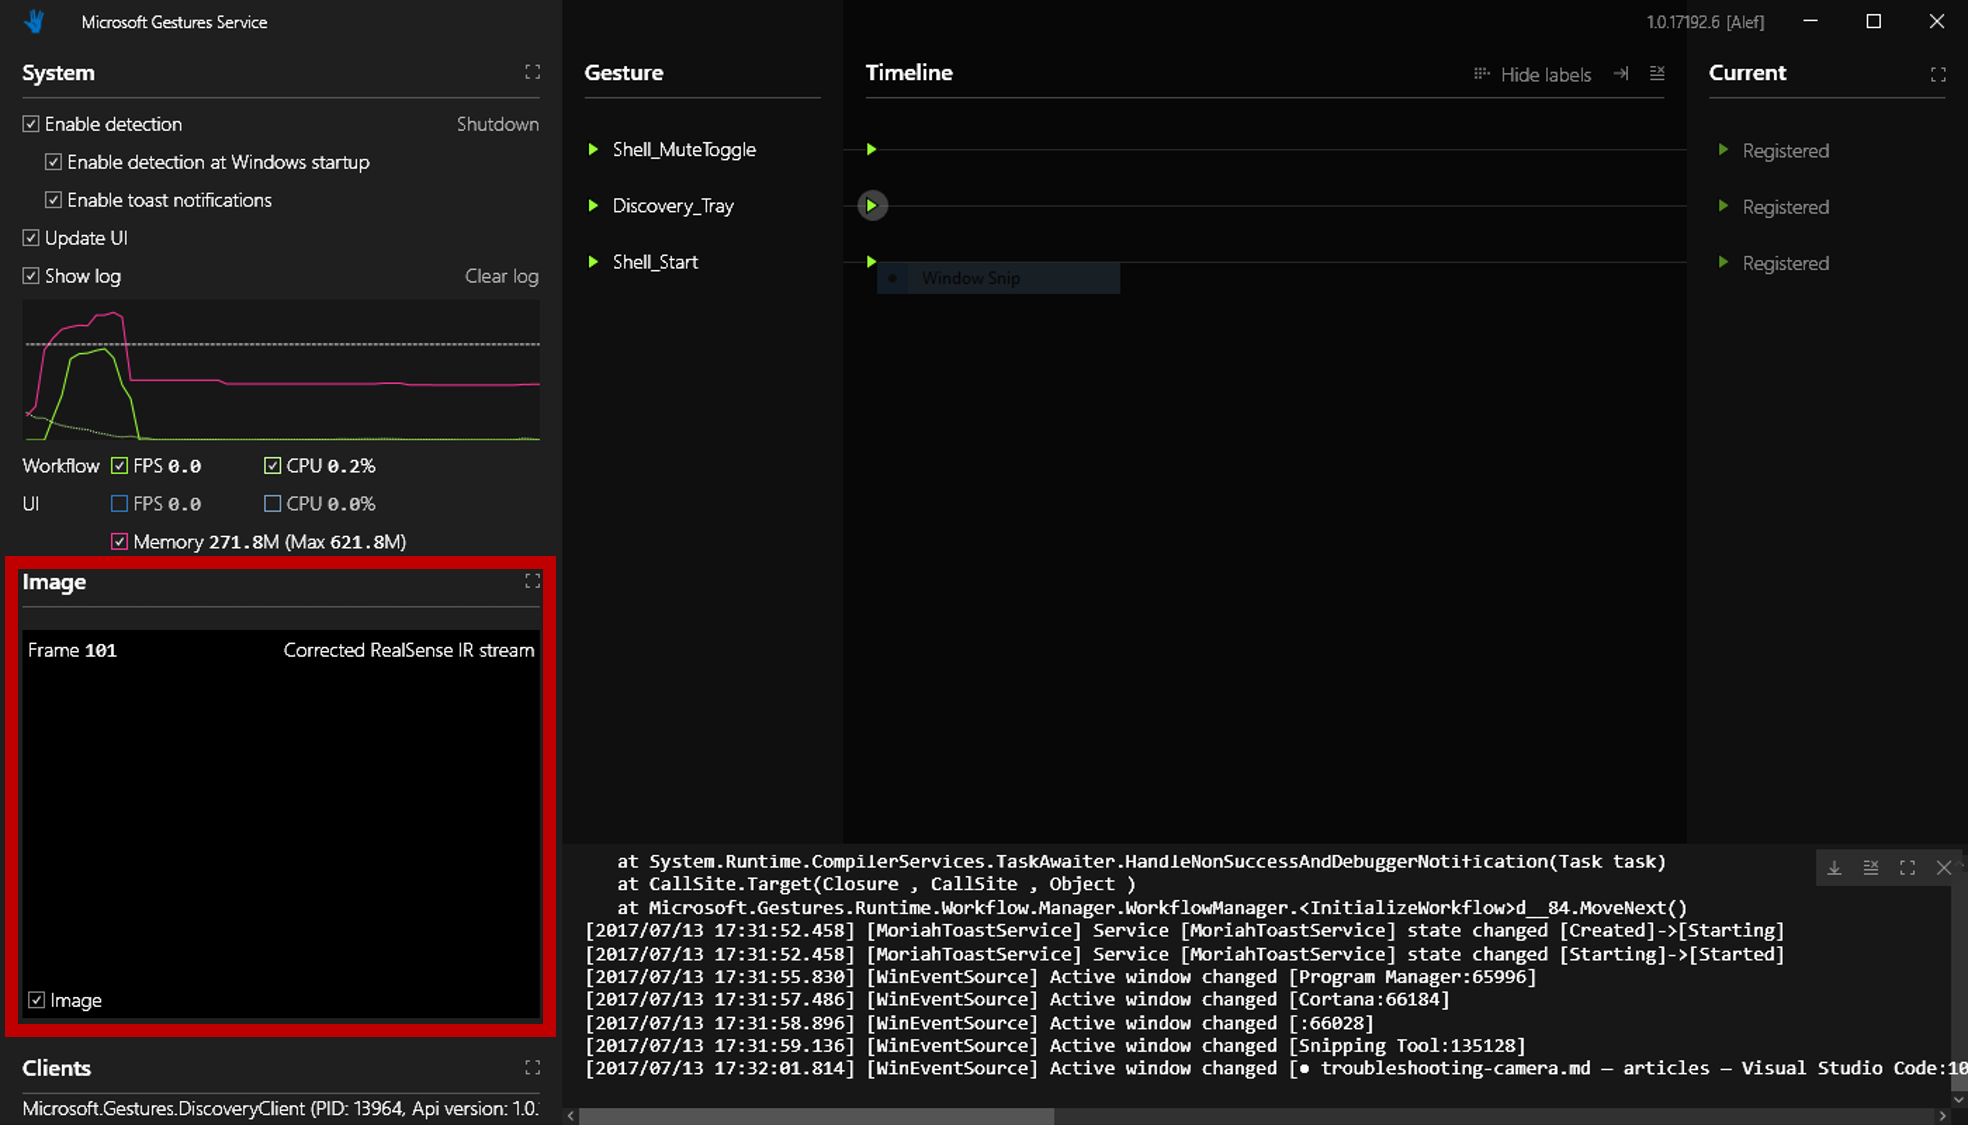
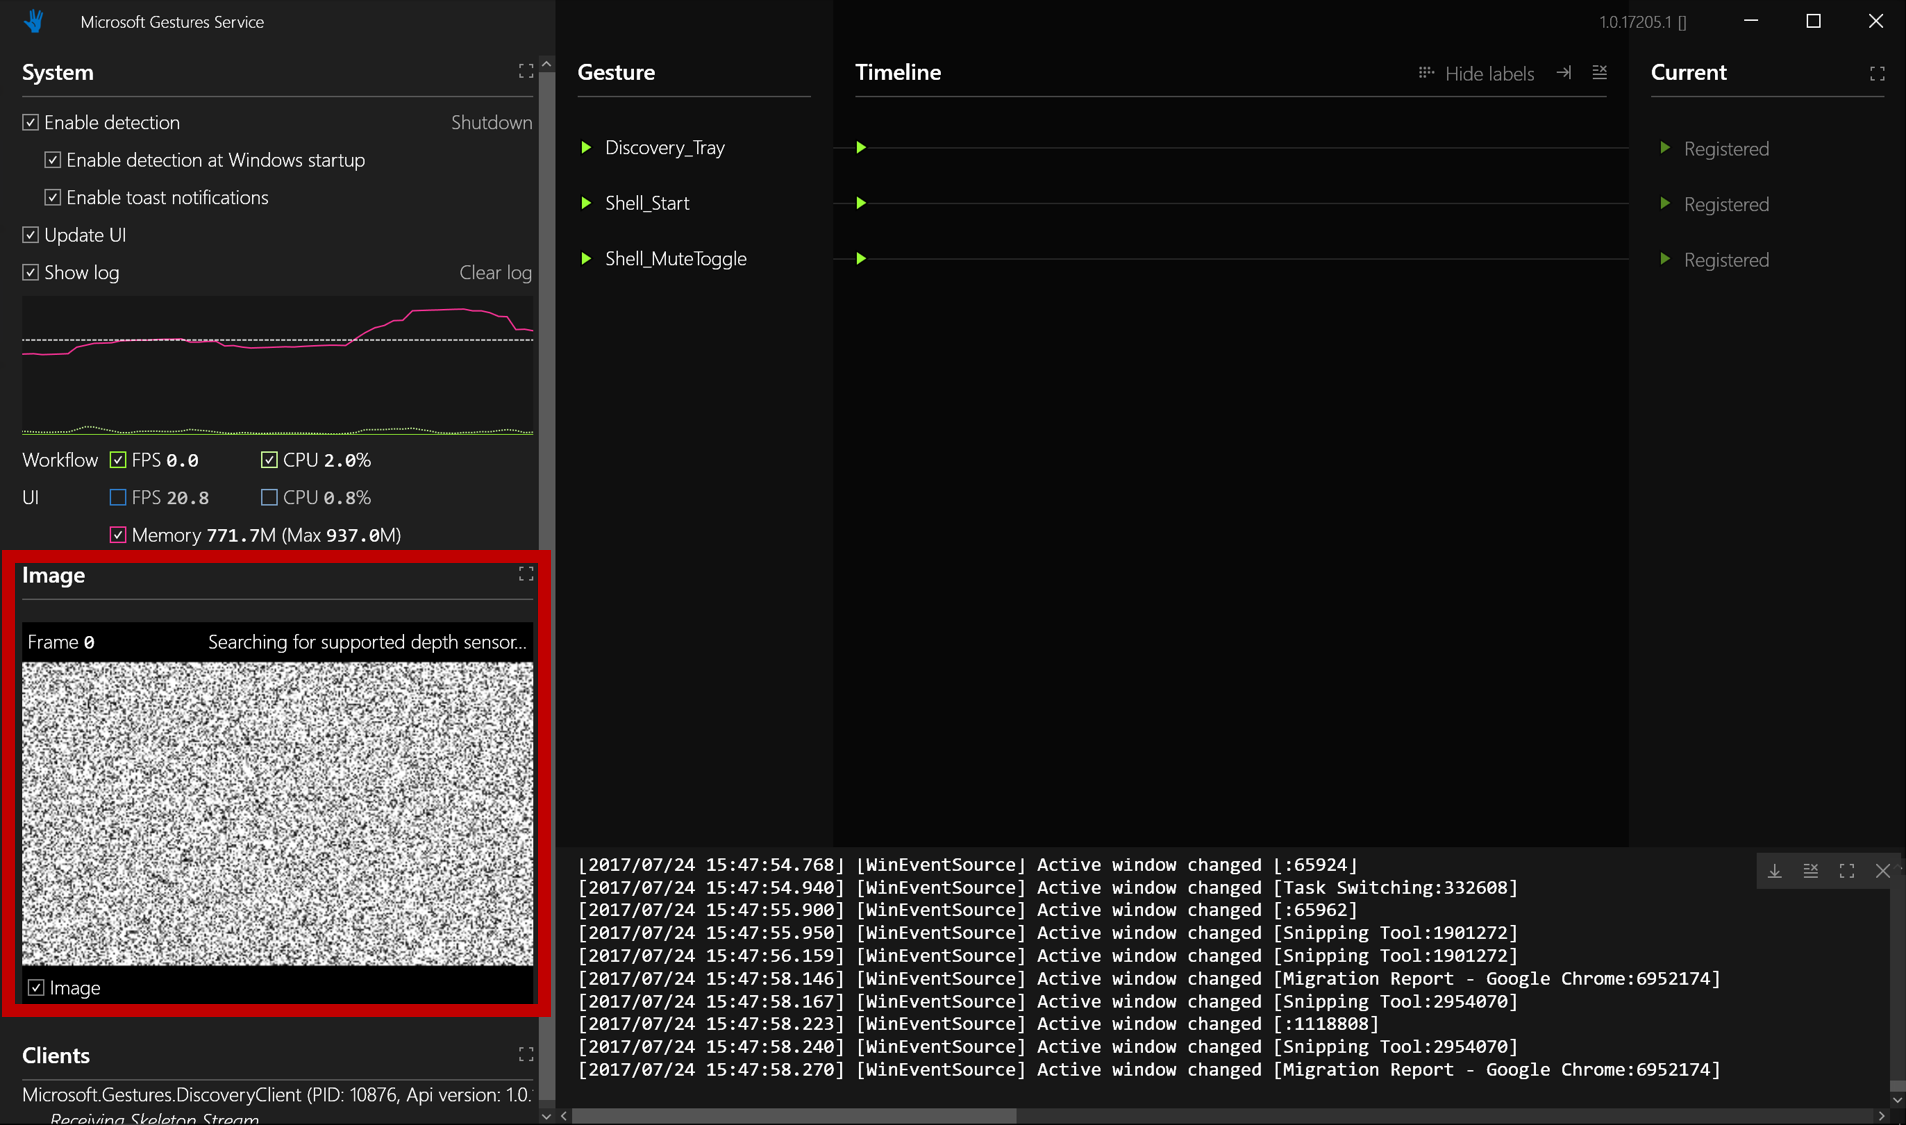
Add Kinect documentation

diff --git a/troubleshooting-camera.md b/troubleshooting-camera.md
@@ -1,41 +1,10 @@
 # Camera Troubleshooting
 
-Gesture detection may work intermittently or stop completely when our [Gestures Service](getting-started-gestures-service.md) has a problem communicating with the [Intel® RealSense™ SR300 camera](https://click.intel.com/intelrealsense-developer-kit-featuring-sr300.html). If such a problem occurs, the "Image" section of the Microsoft Gestures Service window will be blank, even when you place your hand inside the camera's field-of-view:
+Gesture detection may work intermittently or stop completely whenever our [Gestures Service](getting-started-gestures-service.md) has a problem communicating with your [depth camera](index.md#supported-depth-cameras). When such a problem occurs, the "Image" section of the Microsoft Gestures Service window will display a "snow" effect:
 
 ![Image section blank due to RealSense issue](Images\CaptureGesturesService_RealSenseIssue.PNG)
 
-To overcome this problem, please make sure your system is set up correctly:
+To overcome this problem, refer to the following pages:
 
-- The [Intel® RealSense™ SR300 camera](https://click.intel.com/intelrealsense-developer-kit-featuring-sr300.html) must be plugged into an SS USB 3.0 port:
-
-    ![RealSense USB Port](Images\RealSensePort.png)
-
-    Note that in some computer brands, the SS USB 3.0 port is colored blue and the power USB 3.0 port is colored gray/black.
-
-- You should see 3 "Intel® RealSense™ Camera SR300" devices appearing in the "Imaging devices" category of your Device Manager:
-
-    ![Device Manager](Images\RealSenseDeviceManager.png)
-
-    If your camera is connected and you don't see these 3 devices, please [re-install](#re-install-camera-driver) the [Intel® RealSense™ SR300 camera](https://click.intel.com/intelrealsense-developer-kit-featuring-sr300.html) driver.
-
-## Re-install camera driver
-
-To fix an erroneous [Intel® RealSense™ SR300 camera](https://click.intel.com/intelrealsense-developer-kit-featuring-sr300.html) driver installation, make sure your camera is plugged-in and follow these steps:
-
-1. Uninstall any "Intel® RealSense™ Camera SR300" devices appearing in the "Imaging devices" category of your Device Manager. Check the "Delete the driver software for this device." checkbox before you click the "Uninstall" button:
-
-    ![Uninstall RealSense devices](Images\RealSenseUninstallDevice.png)
-
-    If you are suggested to restart your machine, choose to restart and proceed with the instructions.
-
-1. When you no longer see any "Intel® RealSense™ Camera SR300" devices, click the "Action" menu and choose "Scan for hardware changes":
-
-    ![Scan changes](Images\RealSenseScanChanges.png)
-
-    Your camera will be detected by Windows Update and the latest driver will be downloaded and installed. Please be patient, as this process may take up to 5 minutes.
-
-    To verify that a new driver is currently being downloaded and installed, inspect your Task Manager, looking for the "Intel® Software Setup Assistant" process:
-
-    ![Task Manager Intel Setup](Images\RealSenseSetupTaskManager.png)
-
-1. Once the driver is installed, restart your machine.
+- [Intel® RealSense™ SR300 troubleshooting](troubleshooting-RealSense-camera.md)
+- Kinect for Windows v2 troubleshooting

diff --git a/troubleshooting-RealSense-camera.md b/troubleshooting-RealSense-camera.md
@@ -1,0 +1,40 @@
+# RealSense™ Troubleshooting
+
+The Intel® RealSense™ SR300 camera must be plugged in to an **SS USB 3.0** port:
+
+![RealSense USB Port](Images\RealSensePort.png)
+
+Note that sometimes, the SS USB 3.0 port is colored blue and the power USB 3.0 port is colored gray/black.
+
+> [!TIP]
+> On some machines, the RealSense™ camera can only be detected when connected through a USB 3.0 hub with an external power supply.
+
+You should see **3 "Intel® RealSense™ Camera SR300" devices** appearing in the "Imaging devices" category of your Device Manager:
+
+![Device Manager](Images\RealSenseDeviceManager.png)
+
+If your camera is connected and you don't see these 3 devices, please follow the instructions below to re-install the Intel® RealSense™ SR300 camera driver.
+
+## Re-install camera driver
+
+To fix an erroneous Intel® RealSense™ SR300 camera driver installation, make sure your camera is plugged-in and follow these steps:
+
+1. **Uninstall all "Intel® RealSense™ Camera SR300" devices** appearing in the "Imaging devices" category of your Device Manager. Check the "Delete the driver software for this device." checkbox before you click the "Uninstall" button:
+
+    ![Uninstall RealSense devices](Images\RealSenseUninstallDevice.png)
+
+    If you are suggested to restart your machine, choose to restart and proceed with the instructions.
+
+1. When you no longer see any "Intel® RealSense™ Camera SR300" devices, click the "Action" menu and choose "**Scan for hardware changes**":
+
+    ![Scan changes](Images\RealSenseScanChanges.png)
+
+    Your camera will be detected by Windows Update and the latest driver will be downloaded and installed. Please be patient, as this process **may take up to 5 minutes**.
+
+    To verify that a new driver is currently being downloaded and installed, inspect your Task Manager, looking for the "Intel® Software Setup Assistant" processes:
+
+    ![Task Manager Intel Setup](Images\RealSenseSetupTaskManager.png)
+
+1. Once the driver is installed, restart your machine.
+
+1. If, at this point, you still cannot see all 3 "Intel® RealSense™ Camera SR300" devices, try installing the driver manually by downloading and running the **"intel_rs_dcm_sr300"** version of the [Intel® RealSense™ Depth Camera Manager](https://downloadcenter.intel.com/download/25044/Intel-RealSense-Depth-Camera-Manager).

diff --git a/index.md b/index.md
@@ -10,22 +10,32 @@ Using Project Prague, you will enable your users to use hand gestures to intuiti
 
 ## Getting started with Project Prague
 
+### Supported depth cameras
+
+To run Project Prague on your machine, you must acquire a depth camera. We currently support the following brands:
+
+Brand | Gesture Detection Range
+------|------
+[Intel® RealSense™ SR300 camera](https://click.intel.com/intelrealsense-developer-kit-featuring-sr300.html) | 20-60 [cm]
+[Kinect for Windows v2](https://developer.microsoft.com/en-us/windows/kinect/hardware) | 60-110 [cm]
+
+For optimal performance, we recommend to **use the Intel® RealSense™ SR300 camera**.
+
 ### Hardware and software requirements
 
 Please make sure your system meets the following requirements before you proceed to set up Project Prague:
 
 Category     | Minimal | Recommended
 ------------ | ------------ | -------------
-Camera       | [Intel® RealSense™ SR300 camera](https://click.intel.com/intelrealsense-developer-kit-featuring-sr300.html)
-CPU | Intel (R) Core (TM) i5 series, 4 logical cores | Intel (R) Core (TM) i7 series, 8 logical cores
-Free RAM | 1GB | 2GB
-Operating System | Windows 10 | Windows 10 with Creator's Update installed
+CPU | Intel® Core™ i5 series, 4 logical cores | Intel® Core™ i7 series, 8 logical cores
+Free RAM | 1GB | 2GB or more
+Operating System | Windows 10 | Windows 10 with Creator Update installed
 
 ### Setting up Project Prague on your machine
 
 To get Project Prague running on your machine you will need to:
 
-1. Connect your [Intel® RealSense™ SR300 camera](https://click.intel.com/intelrealsense-developer-kit-featuring-sr300.html) to a USB 3.0 port and place it below your computer's monitor, as illustrated in the image below:
+1. Connect your [depth camera](#supported-depth-cameras) to a USB 3.0 port and place it below your computer's monitor, as illustrated in the image below:
     
     ![RealSense camera desktop setup](Images\RealSenseDesktopSetup.png)
 

diff --git a/getting-started-gestures-service.md b/getting-started-gestures-service.md
@@ -60,7 +60,7 @@ The FPS and CPU metrics are computed and displayed for both the "Workflow" and t
 
 #### Image section
 
-This section of the Gestures Service UI displays the IR video stream produced by the depth camera. As you can see, we filter out all the pixels in the frame which are outside of a rectangle containing the hand:
+This section of the Gestures Service UI displays the IR video stream produced by the [depth camera](index.md#supported-depth-cameras). As you can see, we filter out all the pixels in the frame which are outside of a rectangle containing the hand:
 
 ![Gestures Service UI](Images/MicrosoftGesturesService_Image.png)
 

diff --git a/TOC.md b/TOC.md
@@ -1,5 +1,5 @@
 # [Overview](index.md)
 # Getting Started
 ## [Gestures Service](getting-started-gestures-service.md)
-# Troubleshooting
-## [Camera](troubleshooting-camera.md)
+# [Troubleshooting](troubleshooting-camera.md)
+## [RealSense™](troubleshooting-RealSense-camera.md)
